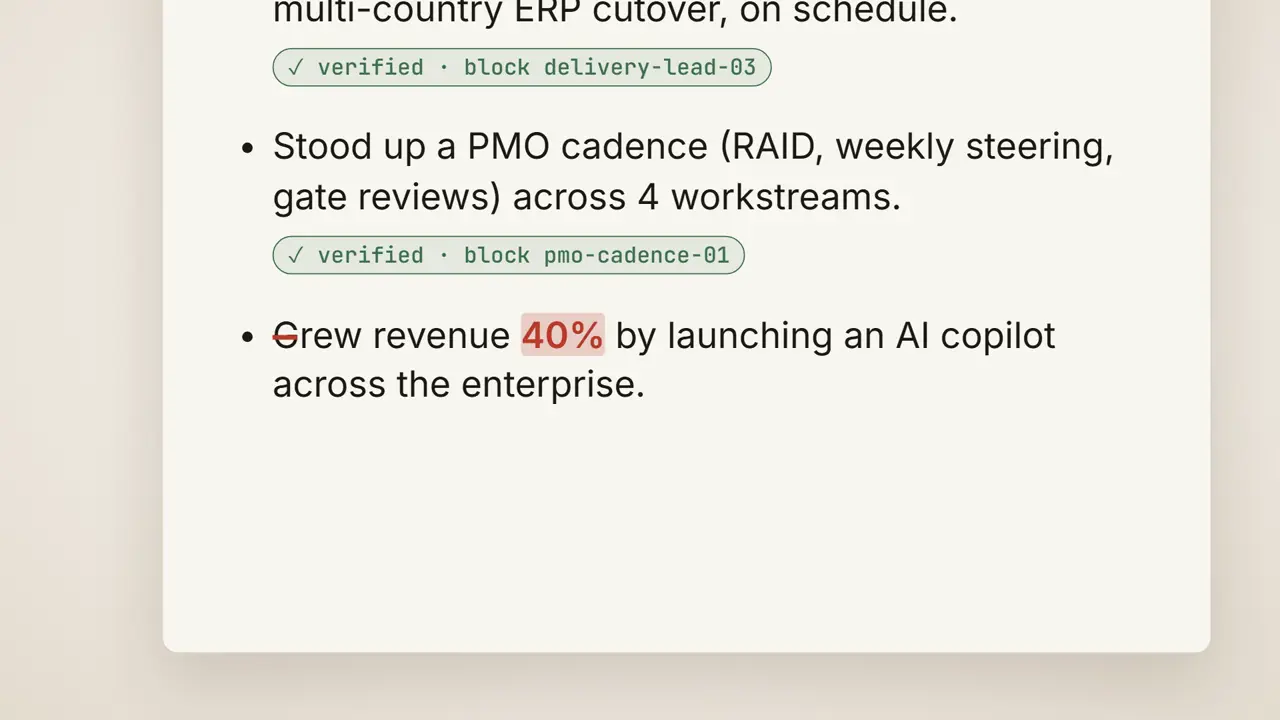
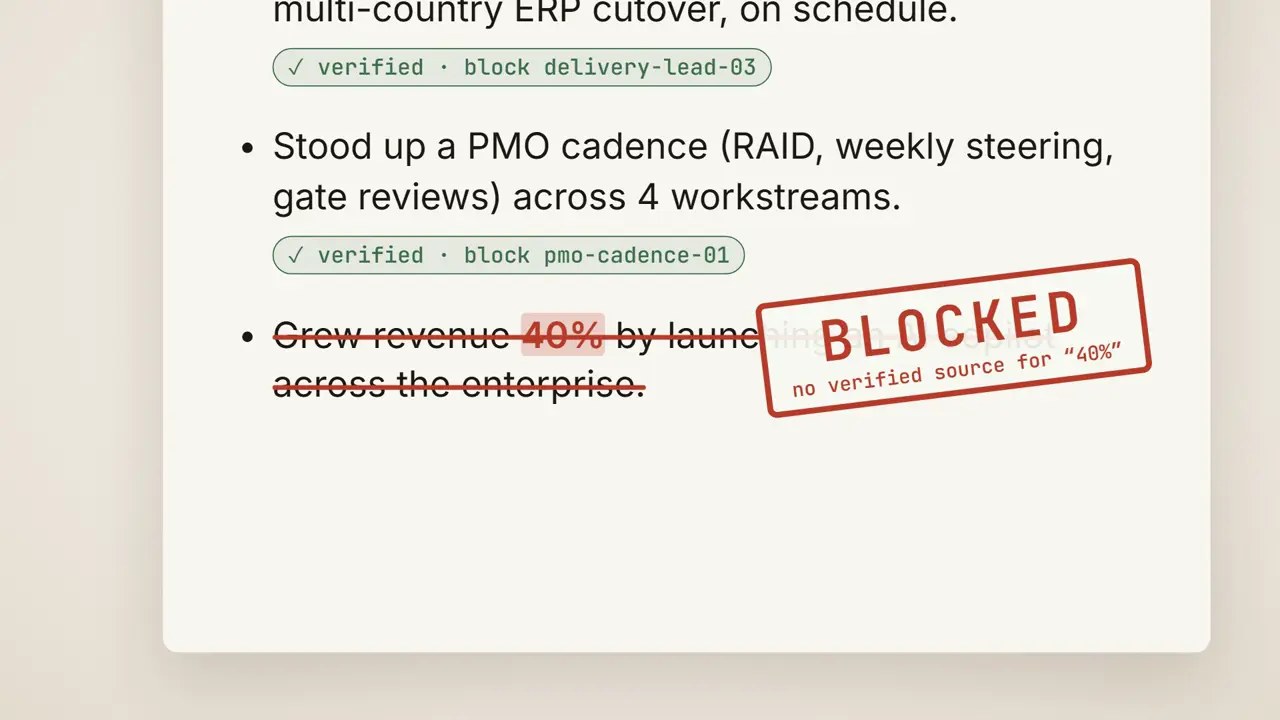
fix(web): describe the commercial accurately; poster shows the full BLOCKED stamp
Poster is the 20.8s frame (34 KB). In this cut the stamp lands at about 20.4s, not 19.2-19.8s.

Claude-Session: https://claude.ai/code/session_01Hhr47Xi3CGDtzjnkgMfn5r

Changed region(s): [[0.2188, 0.3361, 0.9062, 0.5806], [0.2188, 0.5194, 0.5, 0.55]]

diff --git a/apps/web/src/components/landing/CommercialVideo.test.tsx b/apps/web/src/components/landing/CommercialVideo.test.tsx
@@ -65,6 +65,11 @@ describe("CommercialVideo", () => {
     const desc = screen.getByText(COMMERCIAL_DESCRIPTION);
     expect(video().getAttribute("aria-describedby")).toBe(desc.id);
     expect(COMMERCIAL_DESCRIPTION.match(/[.!?]/g)).toHaveLength(1);
+    // What the video actually shows: blocked invented 40%, a verified-fact replacement, the person applies.
+    expect(COMMERCIAL_DESCRIPTION).toMatch(/invented 40%.*blocked/);
+    expect(COMMERCIAL_DESCRIPTION).toMatch(/verified fact/);
+    expect(COMMERCIAL_DESCRIPTION).toMatch(/person applying themselves/);
+    expect(COMMERCIAL_DESCRIPTION).not.toMatch(/same line|your own resume/);
   });
 
   it("keeps the copy free of only/first claims and of any promise to submit", () => {

diff --git a/apps/web/src/components/landing/CommercialVideo.tsx b/apps/web/src/components/landing/CommercialVideo.tsx
@@ -8,7 +8,7 @@ export const COMMERCIAL_SRC = "/media/rhapto-commercial.mp4";
 export const COMMERCIAL_POSTER = "/media/rhapto-commercial-poster.webp";
 export const COMMERCIAL_LABEL = "Rhapto in 34 seconds";
 export const COMMERCIAL_DESCRIPTION =
-  "The video shows an AI-written resume line with an invented number being blocked, then Rhapto producing the same line with the number from your own resume.";
+  "The video shows an invented 40% resume line being blocked, a line backed by a verified fact replacing it, and then the person applying themselves on the employer's own site.";
 
 /** Wide screens only: phones never autoplay and never fetch the file until the viewer presses play. */
 const WIDE_QUERY = "(min-width: 1024px)";
